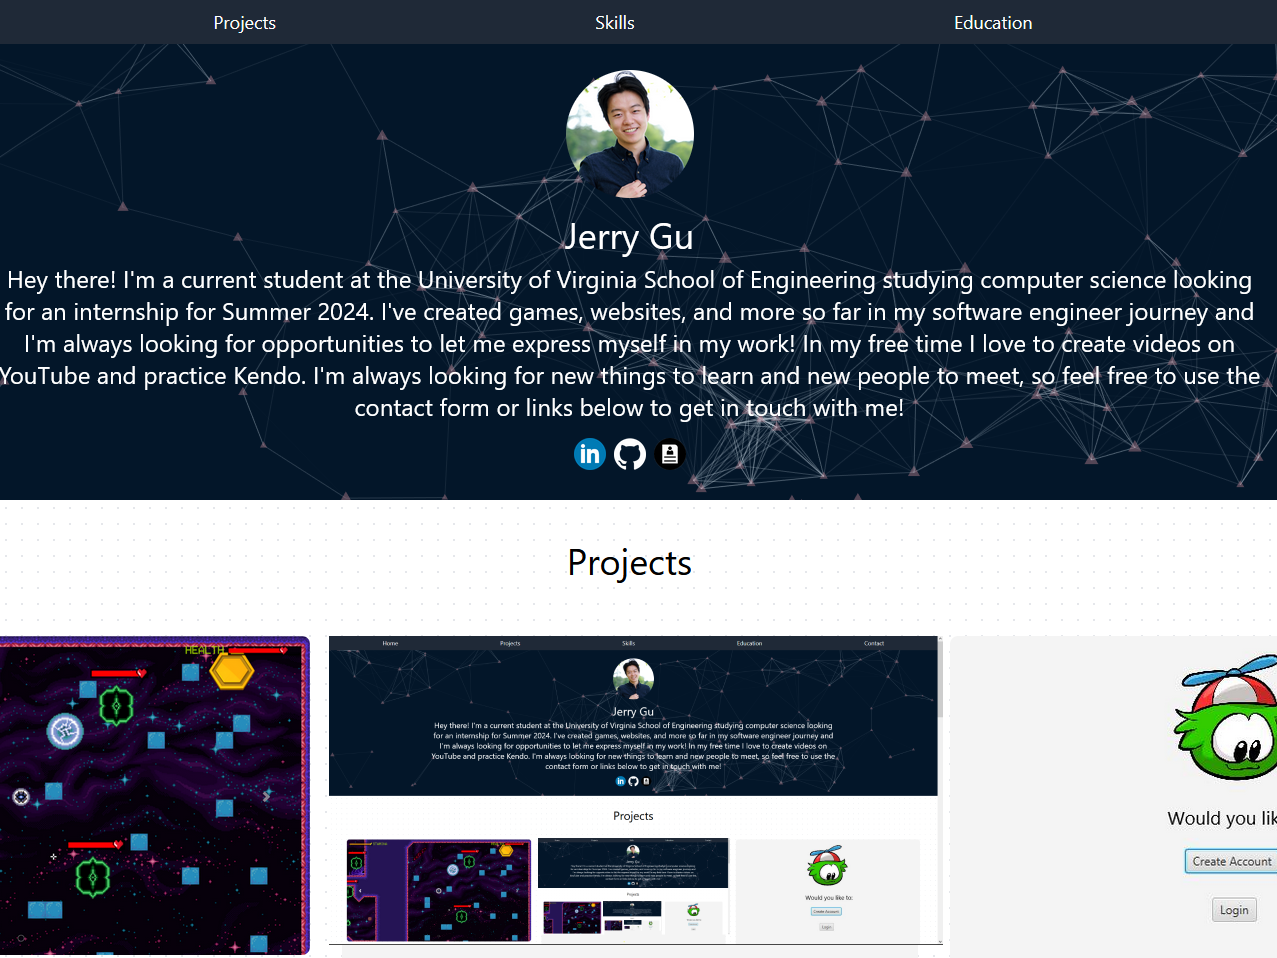
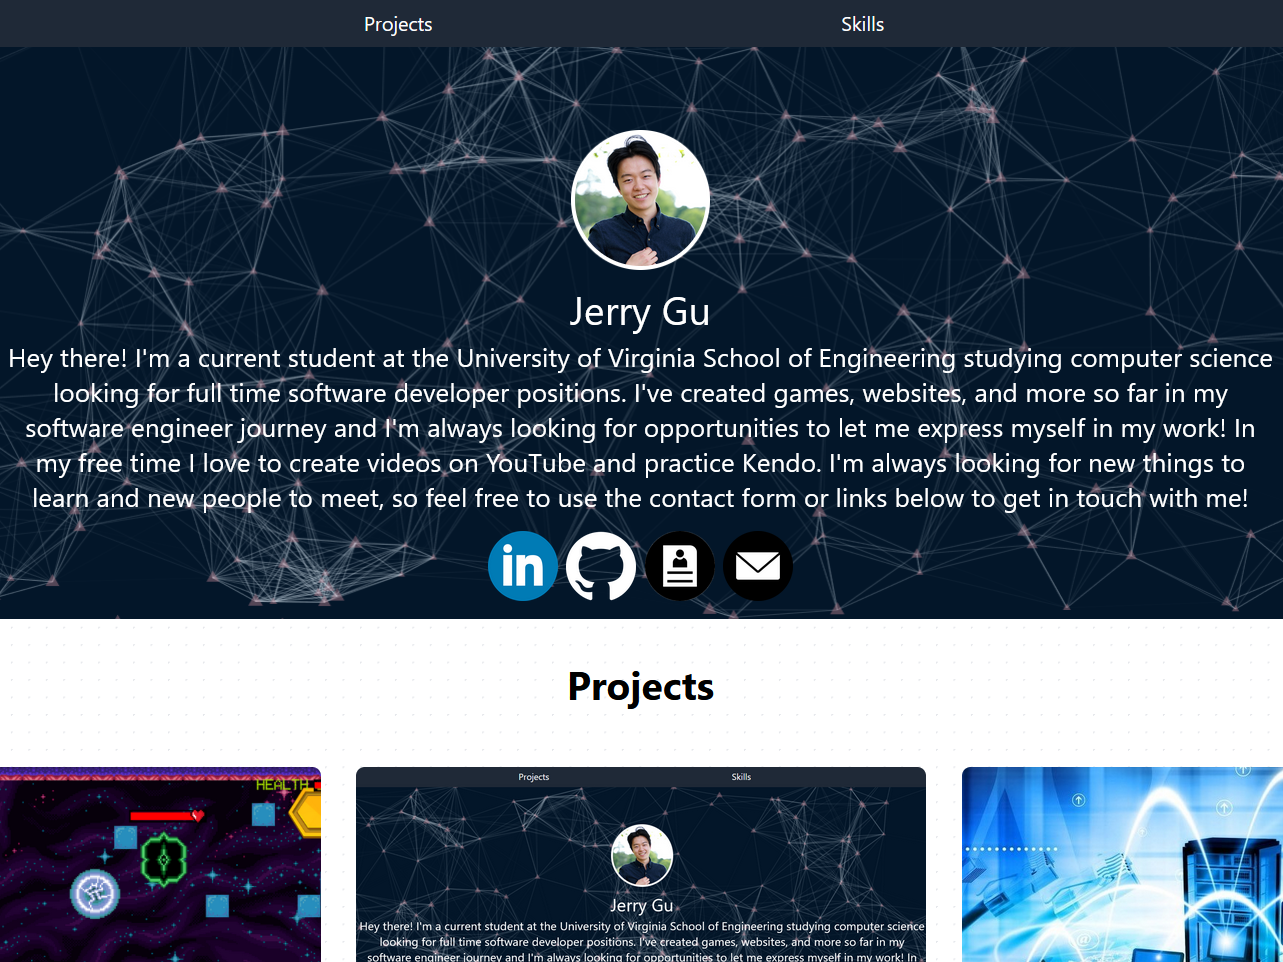
okay think this is a good stopping point

diff --git a/portfolio/src/components/ProjectList.tsx b/portfolio/src/components/ProjectList.tsx
@@ -2,32 +2,45 @@ import StudentCourseApp from './images/coursereview.jpg';
 import ShadowBox from './images/shadowbox.png';
 import SplitBall from './images/splitball.png';
 import Portfolio from './images/portolio.png';
-import HTML from './images/HTML.png';
+import HTTP from './images/HTTP.jpg';
 const ProjectList = [
     {
       title: 'Student Course Review App',
-      details: ['•	Designed and developed a class review application as a final project for Software Development Essentials course', '•	Engineered a 3-layer architecture pattern with JavaFX as the presentation layer, Java for logic, and SQLite for the backend'],
+      details: ['•	Designed and developed a class review application as a final project for Software Development Essentials course', 
+        '•	Engineered a 3-layer architecture pattern with JavaFX as the presentation layer, Java for logic, and SQLite for the backend'],
       image: StudentCourseApp,
+      link: '',
     },
     {
       title: 'ShadowBox Mouse Trainer ',
-      details: ['•	Conceived the original idea for a mouse coordination training game, identifying a need for such a tool', '•	Self-taught Unity and C# scripting to bring the game idea to life, successfully bringing new game to public ', '•	Play my game: jerrygu.itch.io/shadowbox'],
+      details: ['•	Conceived the original idea for a mouse coordination training game, identifying a need for such a tool', 
+        '•	Self-taught Unity and C# scripting to bring the game idea to life, successfully bringing new game to public ', 
+        '•	Try it out by clicking on this image!'],
       image: ShadowBox,
+      link: 'https://jerrygu.itch.io/shadowbox'
     },
     {
       title: 'SplitBall',
-      details: ['•	Inherited single player game as a team of two to repurpose as a multiplayer offline competitive game within the Unity Engine and C#', '•	Check out the repo: github.com/UVASGD/spring-2022-splitball'],
+      details: ['•	Inherited single player game as a team of two to repurpose as a multiplayer offline competitive game within the Unity Engine and C#', 
+        '•	Check out the repo by clicking on this image!'],
       image: SplitBall,
+      link: 'https://github.com/UVASGD/spring-2022-splitball',
     },
     {
       title: 'Personal Portfolio Website',
-      details: ['•	Constructed a personal portfolio website using React + TypeScript, and designed using Tailwind CSS', '•	Incorporated an email contact form using Formspree, providing direct communication with visitors', '•	Check out my website: Ctrl-R or Cmd-R'],
+      details: ['•	Constructed a personal portfolio website using React + TypeScript, and designed using Tailwind CSS', 
+        '•	Incorporated an email contact form using Formspree, providing direct communication with visitors', 
+        '•	Check out this website\'s source code by clicking on this image!'],
       image: Portfolio,
+      link: 'https://github.com/Jerry-Gu-SB/Jerry-Gu-SB.github.io'
     },
     {
-      title: 'HTML 1.0 File Server',
-      details: ['•	Utilized C programming language socket library to construct a file delivery webserver supporting subset of HTTP/1.0', '• Implemented functionality to handle GET and POST requests for efficient file transfer and data submission.'],
-      image: HTML,
+      title: 'HTTP 1.0 File Server',
+      details: ['•	Utilized C programming language socket library to construct a file delivery webserver supporting subset of HTTP/1.0', 
+        '• Implemented functionality to handle GET and POST requests for efficient file transfer and data submission',
+        '• Check out the repo by clicking here!'],
+      image: HTTP,
+      link: 'https://github.com/Jerry-Gu-SB/socket-server-client'
     }
   ];
   

diff --git a/portfolio/src/components/Projects.tsx b/portfolio/src/components/Projects.tsx
@@ -2,7 +2,7 @@ import React, { useState } from "react";
 import Slider from "react-slick";
 import "slick-carousel/slick/slick.css";
 import "slick-carousel/slick/slick-theme.css";
-import ProjectList from "./ProjectList"; // Path to your projects file
+import ProjectList from "./ProjectList";
 
 const Projects: React.FC = () => {
   const settings = {
@@ -20,22 +20,32 @@ const Projects: React.FC = () => {
 
   return (
     <section id="Projects" className="p-10">
-      <h2 className="text-4xl mb-10 font-weight-bold">Projects</h2>
+      <h2 className="text-4xl mb-10 font-bold">Projects</h2>
       <Slider {...settings}>
         {ProjectList.map((project, index) => (
-          <div 
-            key={index} 
-            className="relative h-full p-4 hover:child:translate-y-0 hover:child:scale-110" 
-            onPointerEnter={() => setIsHovered(prevState => prevState.map((val, idx) => idx === index ? true : val))} 
+          <div
+            key={index}
+            className="relative h-full p-4 hover:child:translate-y-0 hover:child:scale-110"
+            onPointerEnter={() => setIsHovered(prevState => prevState.map((val, idx) => idx === index ? true : val))}
             onPointerLeave={() => setIsHovered(prevState => prevState.map((val, idx) => idx === index ? false : val))}
           >
-            <div
-              className={`h-full flex-grow rounded-lg transition-transform duration-300 transform-gpu ${isHovered[index] ? '-translate-y-full scale-110' : ''}`}
-            >
-              <img src={project.image} alt={project.title} className="rounded-lg w-full h-full object-cover" />
-            </div>
+            {project.link ? (
+              <a href={project.link} target="_blank" rel="noopener noreferrer">
+                <div
+                  className={`h-full flex-grow rounded-lg transition-transform duration-300 transform-gpu ${isHovered[index] ? '-translate-y-full scale-110' : ''}`}
+                >
+                  <img src={project.image} alt={project.title} className="rounded-lg w-full h-full object-cover" />
+                </div>
+              </a>
+            ) : (
+              <div
+                className={`h-full flex-grow rounded-lg transition-transform duration-300 transform-gpu ${isHovered[index] ? '-translate-y-full scale-110' : ''}`}
+              >
+                <img src={project.image} alt={project.title} className="rounded-lg w-full h-full object-cover" />
+              </div>
+            )}
             <div className="z-[-10] absolute top-4 p-4 rounded-lg overflow-auto max-h-[calc(100%-8px)]">
-              <h3 className="text-sm sm:text-base md:text-md lg:text-l xl:text-2xl pt-4">{project.title}</h3>
+              <h3 className="text-sm sm:text-base md:text-md lg:text-l xl:text-2xl pt-4 font-bold">{project.title}</h3>
               <ul className="text-sm sm:text-base md:text-sm lg:text-md xl:text-xl mt-2 space-y-2">
                 {project.details.map((detail, i) => (
                   <li key={i}>{detail}</li>
